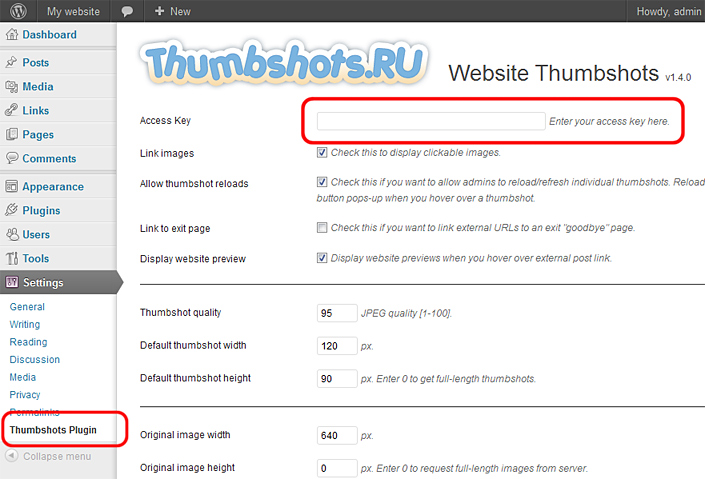
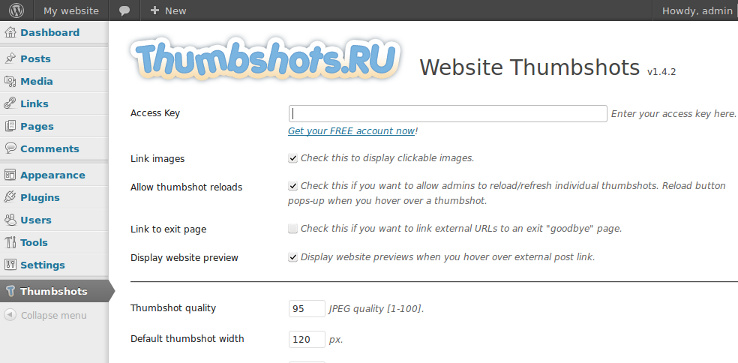
v1.4.2
git-svn-id: https://plugins.svn.wordpress.org/website-thumbshots/trunk@558098 b8457f37-d9ea-0310-8a92-e5e31aec5664

diff --git a/inc/_thumbshots.class.php b/inc/_thumbshots.class.php
@@ -8,8 +8,8 @@
  *
  * API specification and examples: {@link http://thumbshots.ru/api}
  *
- * Version: 1.7.2
- * Date: 06-May-2012
+ * Version: 1.7.3
+ * Date: 14-Jun-2012
  *
  */
 if( !defined('THUMBSHOT_INIT') ) die( 'Please, do not access this page directly.' );
@@ -289,7 +289,7 @@ LvX4yglOQdGPf3juCHnJhcUJKmiOltGD2CyAAAMA9pVY15kNU24AAAAASUVORK5CYII=" alt="" tit
 		}
 
 		// Debug
-		$this->debug_disp( 'Server response', htmlentities($data) );
+		$this->debug_disp( 'Received data', htmlentities($data) );
 
 		if( !$Thumb = $this->json_to_array($data) )
 		{	// Debug
@@ -728,6 +728,10 @@ LvX4yglOQdGPf3juCHnJhcUJKmiOltGD2CyAAAMA9pVY15kNU24AAAAASUVORK5CYII=" alt="" tit
 		if( ! $content = @file_get_contents($filename) )
 		{
 			$content = $this->fetch_remote_page( $filename, $info );
+
+			// Remove chunks if any
+			$content = preg_replace( '~^[^{]*({.*?})[^}]*$~', '\\1', $content );
+
 			if($info['status'] != '200') $content = '';
 
 			$this->debug_disp( 'Server response', $info );
@@ -908,7 +912,7 @@ LvX4yglOQdGPf3juCHnJhcUJKmiOltGD2CyAAAMA9pVY15kNU24AAAAASUVORK5CYII=" alt="" tit
 				$path .= '?'.$url_parsed['query'];
 			}
 
-			$out = 'GET '.$path.' HTTP/1.1'."\r\n";
+			$out = 'GET '.$path.' HTTP/1.0'."\r\n"; // Use HTTP/1.0 to prevent chunking
 			$out .= 'Host: '.$host;
 			if( ! empty( $url_parsed['port'] ) )
 			{	// we don't want to add :80 if not specified. remote end may not resolve it. (e-g b2evo multiblog does not)
@@ -1000,16 +1004,15 @@ LvX4yglOQdGPf3juCHnJhcUJKmiOltGD2CyAAAMA9pVY15kNU24AAAAASUVORK5CYII=" alt="" tit
 			fclose( $fp );
 		}
 
-		// Extract info from the headers
+		// Extract info from headers
 		if( isset($r) )
 		{
-			foreach($headers as $header)
+			$headers = array_map( 'strtolower', $headers );
+			foreach( $headers as $header )
 			{
-				$header = strtolower($header);
-
-				if( preg_match( '^x-thumb-(\w+):(.*?)$i', '', $header, $match ) )
+				if( preg_match( '~^x-thumb-(\w+):(.*?)$~i', $header, $matches ) )
 				{	// Collect all "X-Thumb" headers
-					$info['x-thumb'][$match[1]] = $match[2];
+					$info['x-thumb'][$matches[1]] = $matches[2];
 				}
 
 				if( substr($header, 0, 13) == 'content-type:' )

diff --git a/thumbshots.plugin.php b/thumbshots.plugin.php
@@ -5,7 +5,7 @@ Plugin URI: http://www.thumbshots.ru/en/website-thumbshots-wordpress-plugin
 Author: Thumbshots.RU Dev Team
 Author URI: http://www.thumbshots.ru/
 Description: This plugin uses the Thumbshots.RU API to replace special tags in posts with website screenshots.
-Version: 1.4.1
+Version: 1.4.2
 */
 
 /**
@@ -15,8 +15,8 @@ Version: 1.4.1
  * License: GPL version 3 or any later version
  * License info: {@link http://www.gnu.org/licenses/gpl.txt}
  *
- * Version: 1.4.1
- * Date: 06-May-2012
+ * Version: 1.4.2
+ * Date: 14-Jun-2012
  *
  */
 
@@ -31,7 +31,7 @@ class thumbshots_plugin extends SonorthPluginHelper
 {
 	var $name = 'Website Thumbshots';
 	var $code = 'thumbshots_plugin';
-	var $version = '1.4.1';
+	var $version = '1.4.2';
 	var $help_url = 'http://www.thumbshots.ru/en/website-thumbshots-wordpress-plugin';
 
 	var $debug = 0;
@@ -50,13 +50,21 @@ class thumbshots_plugin extends SonorthPluginHelper
 
 	function thumbshots_plugin()
 	{
-		$this->menu_text = 'Thumbshots Plugin';
+		$this->menu_text = 'Thumbshots';
 		$this->pre = 'thumb_';
 		$this->uri = snr_get_request('uri');
+		$this->foldername = 'website-thumbshots';
 
 		$this->thumbnails_path = WP_CONTENT_DIR.'/'.$this->cache_dirname.'/';
 		$this->thumbnails_url = content_url('/'.$this->cache_dirname.'/');
 
+		$locale = get_locale();
+		if( $locale != 'ru_RU' )
+		{
+			$locale = 'en_US';
+		}
+
+		$register_url = 'http://my.thumbshots.ru/auth/register.php?locale='.str_replace('_', '-', $locale);
 		$error_codes_url = 'http://www.thumbshots.ru/error-codes';
 
 		$max_w = 1280;
@@ -66,7 +74,7 @@ class thumbshots_plugin extends SonorthPluginHelper
 			'access_key' => array(
 				'label' => $this->T_('Access Key'),
 				'size' => 50,
-				'note' => $this->T_('Enter your access key here.'),
+				'note' => sprintf( $this->T_('Enter your access key here.<br /><a %s>Get your FREE account now</a>!'), 'href="'.$register_url.'" target="_blank"' ),
 				'defaultvalue' => 'DEMOKEY002PMK1CERDMUI5PP5R4SPCYO',
 			),
 			'link' => array(

diff --git a/inc/_plugin-helper.class.php b/inc/_plugin-helper.class.php
@@ -14,6 +14,7 @@
 class SonorthPluginHelper
 {
 	var $name;
+	var $foldername;
 	var $version;
 	var $help_url;
 	var $pre;
@@ -89,7 +90,13 @@ class SonorthPluginHelper
 
 	function admin_menu()
 	{
-		add_options_page( __($this->menu_text, $this->name), __($this->menu_text, $this->name), 10, $this->pre.'settings', array($this, 'admin_settings') );
+		$icon_url = '';
+		if( file_exists( dirname(__FILE__).'/../menu-icon.png') )
+		{	// Add menu icon if any
+			$icon_url = plugins_url().'/'.$this->foldername.'/menu-icon.png';
+		}
+
+		add_menu_page( $this->name, $this->menu_text, 10, $this->pre.'settings', array($this, 'admin_settings'), $icon_url );
 	}
 
 
@@ -189,7 +196,7 @@ class SonorthPluginHelper
 
 			case 'settings':
 				$image = '';
-				$img = plugins_url().'/'.$this->code.'/plugin-logo.png';
+				$img = plugins_url().'/'.$this->foldername.'/plugin-logo.png';
 				if( file_exists( dirname(__FILE__).'/../plugin-logo.png') )
 				{
 					$image = '<img src="'.$img.'" align="left" style="padding:0 15px 15px 0" alt="" />';
